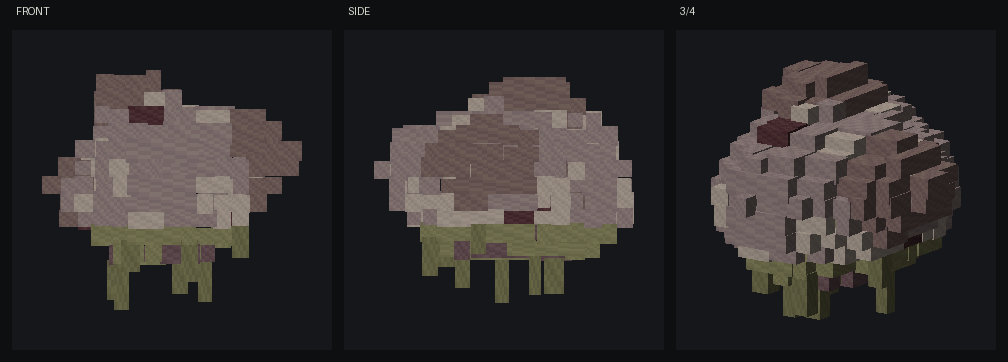
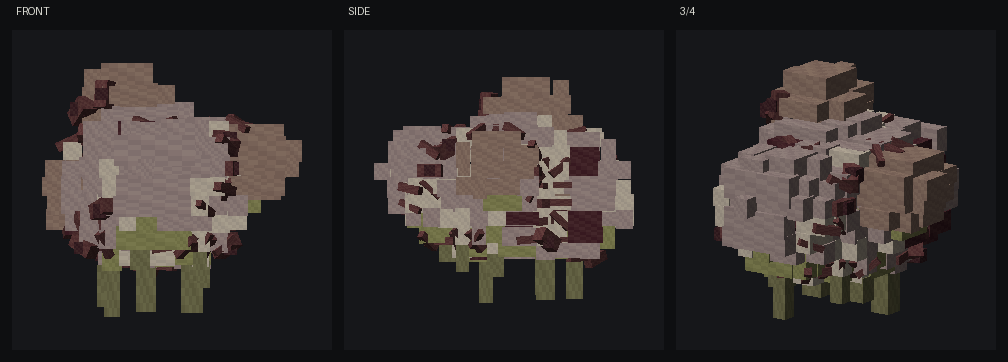
异变缝合兽：癒合痕 + 负权凹槽 + 黏液按法向铺 (round 2/3)
Round 1 渲出来是块石头。逐条自评修正：

**癒合痕（最大缺失）**：round 1 核心一条痕都没有。正典的中心意象就是几团组织
长到一起。痕的位置不用画——两个 lobe 在表面的交界处即是痕，与骨骼分段共用同一个
owner() 划分，"哪两块是分别长进来的"在场里只有一个答案。

  · **不是外科缝合**：初版做成了疤脊 + 等距横针 + 深色线，那是人造缝合口的读法。
    正典写的是「不是物理接合——是一层层组织的重新编织……一种塑性再生」。改为
    不规则隆起：粗细逐段随机、一成几率断开（融合彻底处无痕）、一成几率堆成肉瘤。
    自检卡「粗细跨度 ≥0.35」+「至少一处肉瘤」，防它被做回等粗等距的缝合口。
  · 细而密胜过粗而疏：先试隔格取 + 粗段，相邻段接不上，渲成一堆散落暗红方块而非
    一条脊。改逐格取、段长 1.55 > 体素间距一半，相邻段重叠成连续脊。
  · 色用暗不用亮：先按"新生组织比周围亮"取 (176,150,138)，与 flesh_pale 只差
    14 级明度，渲出来完全看不见。MC 像素尺度下暗线压在中明度肉上才读得出走向。
  · 抬出量取抖动上限六成：抬满则整条浮在皮外像根虫，抬太少被鼓起的肉块埋掉，
    两头都撞过。六成处多数贴皮、少数半埋——半埋正是癒合痕该有的样子。

**负权凹槽**：高斯和永远是凸的，只加正权 lobe 必然鼓成一只圆面包（round 1 正视图
就是个穹顶）。加 4 个负权扁盘在交界处刻沟，有沟才读得出"几团东西挤在一张皮里"。
负权段不参与 owner()，不抢骨骼归属。

**黏液按法向铺**：原先按高度 `p[1] < 阈值` 判，在肚子上切出一条笔直水平色带，
像站在一滩藻里。改按朝下程度判且门槛压到 0.55——椭球整个下半面法向 y 都 < -0.3，
用 0.30 等于把下半身整个刷绿。

**其余**：抖动幅度按 slab 跨度加权（大平面仍渲成梯田）；调色明度跨度拉开；
垂滴长度改由离地下限反推而非写死（调抖动就会撞破）；量测与自检统一到本体口径。

产出：278 块 / 8 骨 / 17 挂载点，本体 1.80×1.48×2.02 格，不对称度 32.4%。

Model: claude-opus-5

diff --git a/scripts/models/stitched_beast/gen_core.py b/scripts/models/stitched_beast/gen_core.py
@@ -32,20 +32,24 @@ OUT_DIR = HERE.parent / "local_models"
 OUT = OUT_DIR / "StitchedBeastCore.bbmodel"
 
 # 末法调色：没有一个鲜亮色。唯一的暖色是黏液那点病态黄绿，且它是"淌出来的"不是"长出来的"。
+# round 2 拉开了明度跨度：round 1 全部挤在中灰棕，渲出来像块石头，读不出"由几块
+# 不同来源的肉拼起来"。膜要够亮、静脉要够暗、赘生物的 scar 要偏黄——差异本身就是叙事。
 MATS: dict[str, tuple[int, int, int]] = {
-    "flesh_pale": (150, 132, 130),
-    "flesh_deep": (108, 84, 88),
-    "membrane": (182, 168, 156),
-    "vein": (84, 52, 56),
-    "bile": (134, 132, 92),
-    "scar": (126, 104, 100),
-    "stitch": (52, 44, 42),
+    "flesh_pale": (162, 142, 138),
+    "flesh_deep": (92, 68, 74),
+    "membrane": (198, 186, 168),
+    "vein": (76, 40, 46),
+    "bile": (140, 140, 88),
+    "scar": (148, 122, 108),
+    "weld": (96, 58, 58),
+    "weld_dark": (66, 38, 42),
     "drip": (118, 116, 80),
 }
 
 # 垂滴：挂在下腹最低处的黏液柱。数量少而长短不一——等长的一排会读成"流苏"，
 # 那是装饰；长短乱的才读成"正在滴"。
 DRIP_COUNT = 7
+DRIP_FLOOR = 8.5   # 垂滴最低不得低于此高度——再低就垂进腿层，读成触手而非黏液
 
 
 def _bone_tree(rig: Rig) -> None:
@@ -87,18 +91,56 @@ def part_drips(rig: Rig) -> int:
         if len(chosen) >= DRIP_COUNT:
             break
     for i, (cx, cz, (y0, s, _frm, _to)) in enumerate(chosen):
-        # 长度上限压在 5.5：更长的垂滴会垂到腿层里去，读成"触手"而不是"正在滴的黏液"。
-        drop = 1.8 + C._noise(s.iy, s.x0, s.z0, "drip") * 3.7
+        # 长度直接由**离地下限**反推，不靠"猜一个够短的长度"：腹底会随抖动幅度和场
+        # 参数上下浮动，写死长度的话调一次抖动就撞破 DRIP_FLOOR（round 2 实测撞了）。
+        want = 1.8 + C._noise(s.iy, s.x0, s.z0, "drip") * 3.7
+        drop = max(1.2, min(want, y0 - DRIP_FLOOR))
         r = 0.7 + C._noise(s.iy, s.x0, s.z0, "dr") * 0.6
         rig.cube(s.bone, f"drip_{i}", (cx - r, y0 - drop, cz - r), (cx + r, y0 + 0.6, cz + r),
                  mat="drip")
     return len(chosen)
 
 
+def part_welds(rig: Rig) -> int:
+    """癒合痕：两团组织自己长到一起留下的隆起脊。
+
+    这是缝合兽读得出来的**唯一**标志。没有它，核心只是一团肉；有了它，玩家才看得出
+    这团肉是几块分别长进来的。位置不是画上去的——见 core.welds，痕即 lobe 边界。
+
+    **不是外科缝合**：没有线、没有针、没有等距横扣。自体融合（正典称"塑性再生"）留下
+    的是不规则隆起——粗细逐段变、局部堆成肉瘤、融合彻底处直接没有痕。等粗等距的脊
+    会立刻读成人造缝合口。
+
+    脊用**暗色**而非亮色：先试过偏亮的新生组织色（176,150,138），与 flesh_pale
+    只差 14 级明度，渲出来完全看不见。在 MC 的像素尺度上，暗线压在中明度肉上才
+    读得出走向。两侧组织颜色的不匹配由 lobe 材质自己承担，不用在这里再涂一遍。
+
+    抬出量取抖动上限的六成：抬满（>JITTER_MAX）脊会整条浮在皮外像根虫，抬太少又会
+    被鼓出来的肉块埋掉（round 2 两头都撞过）。六成处大部分段贴着皮、少数被肉半埋——
+    半埋恰好是癒合痕该有的样子，它本来就长在皮里。
+    """
+    n = 0
+    for i, w in enumerate(C.welds()):
+        base = w.pos + w.normal * (C.JITTER_MAX * 0.6 + w.radius * 0.3)
+        # 段长必须大于体素间距（VOX=2）的一半，相邻段才重叠成连续的脊
+        a = base - w.tangent * 1.55
+        b = base + w.tangent * 1.55
+        rig.shaft(w.bone, f"weld_{i}", tuple(a), tuple(b), w.radius, mat="weld")
+        n += 1
+        if w.bulge:
+            # 融合失控处堆出的肉瘤：更外、更粗、压一层暗色，读成"这里长坏了"
+            tip = w.pos + w.normal * (C.JITTER_MAX * 0.6 + 0.35 + w.radius * 0.6)
+            r = w.radius * 0.85
+            rig.cube(w.bone, f"wart_{i}", tuple(tip - r), tuple(tip + r), mat="weld_dark")
+            n += 1
+    return n
+
+
 def build() -> Rig:
     rig = Rig(Palette(MATS, swatch=8, size=64))
     _bone_tree(rig)
     part_mass(rig)
+    part_welds(rig)
     part_drips(rig)
     return rig
 
@@ -176,9 +218,26 @@ def check(rig: Rig) -> list[str]:
             if d < 4.0:
                 bad.append(f"socket {a} 与 {b} 相距仅 {d:.1f}，部件会互穿")
 
-    # ⑦ 块数预算：189 上下。翻倍说明 merge 或材质斑块化退化了。
-    if len(rig.elements) > 320:
-        bad.append(f"块数 {len(rig.elements)} 超预算 320——检查 MAT_PATCH / merge_slabs")
+    # ⑦ 癒合痕必须存在、覆盖每一处 lobe 交界、且**粗细不齐**。
+    #    痕是缝合兽唯一读得出来的标志，这条断言防的是"顺手把接缝抹平"；
+    #    粗细方差那条防的是把它做成等粗等距的人造缝合口（正典是自体塑性再生）。
+    wl = C.welds()
+    if len(wl) < 20:
+        bad.append(f"癒合痕只有 {len(wl)} 段——核心必须看得出是几块长到一起的")
+    weld_bones = {w.bone for w in wl}
+    for lb in C.LOBES:
+        if lb.parent and lb.name not in weld_bones:
+            bad.append(f"lobe {lb.name} 没有任何癒合痕——它是怎么接上去的？")
+    rs = [w.radius for w in wl]
+    spread = max(rs) - min(rs)
+    if spread < 0.35:
+        bad.append(f"癒合痕粗细跨度仅 {spread:.2f}，等粗会读成人造缝合口而非自体融合")
+    if not any(w.bulge for w in wl):
+        bad.append("没有一处融合肉瘤——通篇均匀的痕不像自己长的")
+
+    # ⑧ 块数预算。翻倍说明 merge 或材质斑块化退化了。
+    if len(rig.elements) > 400:
+        bad.append(f"块数 {len(rig.elements)} 超预算 400——检查 MAT_PATCH / merge_slabs")
     return bad
 
 
